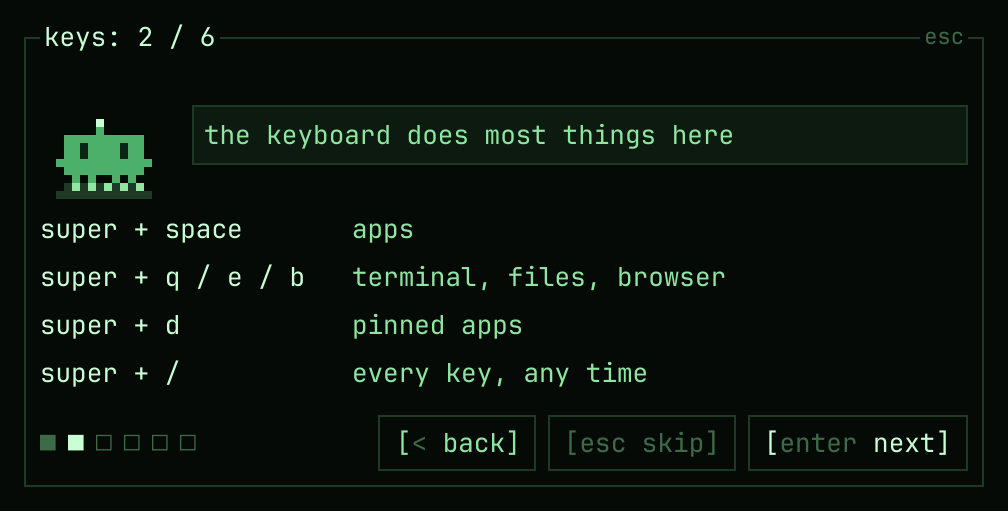
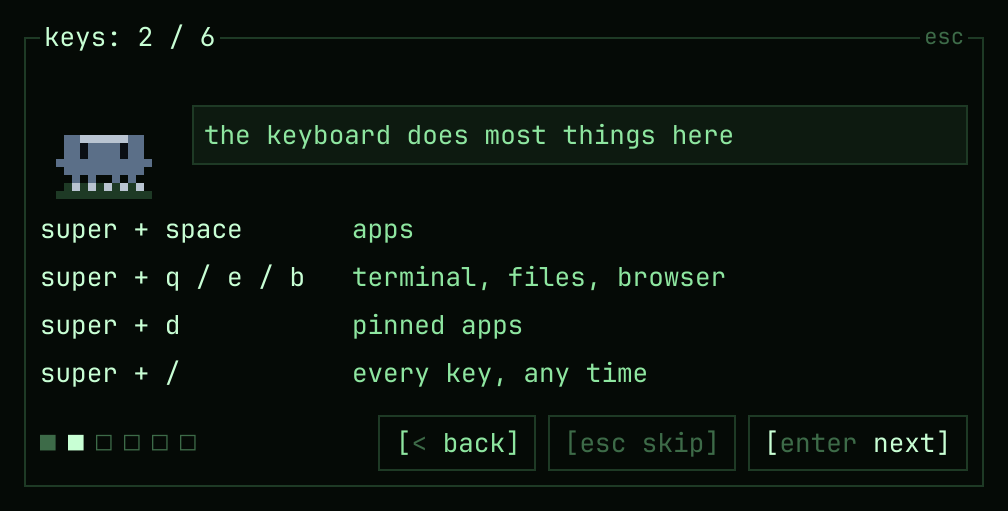
companion: floppy is the one you meet first (and first in his looks); the house sits left of the network buttons in the bar; the readme's pictures with floppy

Changed region(s): [[0.0615, 0.2348, 0.1538, 0.3816]]

diff --git a/quickshell/kawt-shell/modules/bar/Bar.qml b/quickshell/kawt-shell/modules/bar/Bar.qml
@@ -116,13 +116,20 @@ Variants {
             }
         }
 
-        // network leads up to the clock
+        // the companion's house, then the network, up to the clock
         RowLayout {
             opacity: root.tucked ? 0 : 1
             anchors.right: clock.left
             anchors.rightMargin: Metrics.sectionGap
             anchors.verticalCenter: parent.verticalCenter
             spacing: Metrics.spacing
+
+            // the companion's house (modules/companion)
+            HouseButton {
+                id: home
+                active: Panels.isOpen("home", root.modelData)
+                onClicked: Panels.toggle("home", root.modelData)
+            }
 
             // while a tunnel (wireguard, openvpn, tailscale...) is up; which one: in the wifi panel
             BracketButton {
@@ -228,13 +235,6 @@ Variants {
                 visible: Settings.barShows("log")
                 active: Panels.isOpen("notifs", root.modelData)
                 onClicked: Panels.toggle("notifs", root.modelData)
-            }
-
-            // the companion's house (modules/companion)
-            HouseButton {
-                id: home
-                active: Panels.isOpen("home", root.modelData)
-                onClicked: Panels.toggle("home", root.modelData)
             }
 
             BracketButton {

diff --git a/quickshell/kawt-shell/utils/companions.js b/quickshell/kawt-shell/utils/companions.js
@@ -21,7 +21,7 @@
 //                          ".obebbbbebo.", ".obbbbbbbbo.", ".obbbmmbbbo.", ".obbbbbbbbo.",
 //                          ".obbbbbbbbo.", "..oooooooo.." ] } }
 // Also possible: "alpha": 0.8 (see-through), "sway": true, "hem": true (a ghost's hem for
-// feet), "blink": "shutter" (the light metal covers the window, like the floppy).
+// feet), "blink": "shutter" (the light "l" slides over the window "s" when the eyes close).
 
 var W = 16, H = 16;
 var X0 = 2; // where the 12-wide grid sits on the stage
@@ -160,7 +160,7 @@ var skins = {
     }
 };
 
-var order = ["phos", "amber", "floppy", "bug", "ghost", "theme"];
+var order = ["floppy", "phos", "amber", "bug", "ghost", "theme"]; // the first one is who you meet
 
 // a skin from companions.json, checked: 10 rows of 12 known letters, colors as #rrggbb
 function valid(s) {

diff --git a/quickshell/kawt-shell/config/Settings.qml b/quickshell/kawt-shell/config/Settings.qml
@@ -209,7 +209,7 @@ Singleton {
             property bool companion: true // off: no house, no walks, no peeks
             property string companionMode: "auto" // "home" | "walk" (an empty desktop is his) | "auto" (he decides)
             property bool companionAsks: true // asks for food and play in a notification, 3 a day at most
-            property string companionSkin: "phos" // utils/companions.js, or yours in ~/.config/kawt/companions.json
+            property string companionSkin: "floppy" // utils/companions.js, or yours in ~/.config/kawt/companions.json
             property string companionName: "" // "" = the look's own
             property string companionLang: "en" // "en" | "ru": what he says
             property bool companionQuotes: true // wise words now and then on a click (fortune-mod's too, in english)

diff --git a/quickshell/kawt-shell/services/Companion.qml b/quickshell/kawt-shell/services/Companion.qml
@@ -34,7 +34,7 @@ Singleton {
     property var custom: ({}) // ~/.config/kawt/companions.json, the valid ones
     readonly property var skins: Object.assign({}, Art.skins, custom, { theme: Object.assign({}, Art.skins.theme, { colors: themeColors }) })
     readonly property var order: Art.order.concat(Object.keys(custom).filter(k => !Art.order.includes(k)))
-    readonly property string skinName: skins[Settings.companionSkin] ? Settings.companionSkin : "phos"
+    readonly property string skinName: skins[Settings.companionSkin] ? Settings.companionSkin : "floppy"
     readonly property var skin: skins[skinName]
     readonly property string name: Settings.companionName || title(skinName)
 

diff --git a/README.md b/README.md
@@ -64,7 +64,7 @@ and running it again is safe. More below: [what the installer does](#what-the-in
 
 ## What's inside
 
-**bar**: `[~] [$] [1] 2 3 · [wifi] [↓ ▁▃▅▇] [> ▂▅▃] [12:34] · [tray 3 v] [us] [vol 40%] [br 60%] [bat 72%] [log 2] [⌂] [>_]`
+**bar**: `[~] [$] [1] 2 3 · [⌂] [wifi] [↓ ▁▃▅▇] [> ▂▅▃] [12:34] · [tray 3 v] [us] [vol 40%] [br 60%] [bat 72%] [log 2] [>_]`
 (the wheel on the workspaces walks them, and with several monitors each bar lists its own; `[eth]` instead of `[wifi]` on a cable, `[vpn]` while a tunnel is up (wireguard, openvpn, tailscale...); `[cast ● app]` shows while something captures the screen or the webcam, `[caf on]` while caffeine is on)
 
 | | |
@@ -85,7 +85,7 @@ and running it again is safe. More below: [what the installer does](#what-the-in
 | mic | `[mic ● discord]` appears while an app records you (red), click to mute |
 | player | `[> ▂▅▃▇▂]` next to the clock (real sound with `cava`); click: the cover as an old phosphor screen shows it (a few big pixels in the theme's color), a wide spectrum, `[-10] [<<] [||] [>>] [+10]`, a position bar to click, drag or scroll, shuffle and loop, the player's own volume, tabs when several play (spotify / firefox / mpv: the bar and the media keys follow the one picked, or the last one started) and this session's tracks (click copies "artist — title", nothing is written down). Keys inside: `space` `←→` `↑↓` `n` `p` `s` `r` `tab`. Covers that live online (spotify's) load only after `[cover load from the net]` |
 | recording | `[● rec 0:42]` in the bar; area or whole screen; sound: off, the mic, what you hear, or both mixed (profile → cfg → media) |
-| screenshots | area / window / screen; the screen stands still while you pick the area (`hyprpicker`); a preview in the corner asks: `[copy]` `[save]` `[open]`, `[edit]` (arrows, boxes, text, blur in `satty`) and `[text]` (what's written in the shot, onto the clipboard, with `tesseract`) (click the picture: open, right click: away; left alone, it goes and nothing is kept). `[x] ask` off in profile → cfg → media: saved and copied at once, like before |
+| screenshots | area / window / screen; the screen stands still while you pick the area (`hyprpicker`); a preview in the corner asks: `[copy]` `[save]` `[open]`, `[edit]` (arrows, boxes, text, blur in `satty`) and `[text]` (what's written in the shot, onto the clipboard, with `tesseract`) (click the picture: open, right click: away; it's on the clipboard at once; left alone, it goes and is saved). `[x] ask` off in profile → cfg → media: saved and copied at once, like before |
 | fastfetch | short system info next to your system's own logo (arch on arch), a `[####----]` memory meter, in the current theme's colors (rewritten on every theme switch); nothing that says who or where you are (no user@host, laptop model or addresses), so it's safe to screenshot |
 | prompt | for zsh (plain zsh, oh-my-zsh not needed): `┌[user]─[~/dir]─[branch*]` / `└$` (`[user@host]` only over ssh), the time on the right, the exit code when a command fails; while typing, the rest of a command from history (→ takes it) and the command marked: accent if it exists, warn if it's a typo; in the theme's own accent / dim / warn colors, switching with it at the next prompt |
 | night light | warmer colors in the `[br]` panel or the profile's cfg (runs `hyprsunset`) |
@@ -95,10 +95,10 @@ and running it again is safe. More below: [what the installer does](#what-the-in
 ## The companion
 
 <p align="center">
-<img src="assets/companions.gif" alt="the five looks: phos, amber, floppy, bug, ghost" width="100%">
+<img src="assets/companions.gif" alt="the five looks: floppy, phos, amber, bug, ghost" width="100%">
 </p>
 
-`[⌂]` in the bar is the house of a little pixel friend, plain like Claude Code's (a solid body, two eyes, little arms and legs): a green monitor with an antenna, an amber one with horns, a floppy disk with its shutter, a purple bug, a pale ghost, or one in your theme's colors (your own: `~/.config/kawt/companions.json`, the format is in `utils/companions.js`). He gets hungry, bored and sleepy with time: feed him, play, put him to bed; left alone too long he sulks (he never dies), and food and a game bring him round.
+`[⌂]` in the bar is the house of a little pixel friend, plain like Claude Code's (a solid body, two eyes, little arms and legs): a floppy disk with its shutter (the one you meet first), a green monitor with an antenna, an amber one with horns, a purple bug, a pale ghost, or one in your theme's colors (your own: `~/.config/kawt/companions.json`, the format is in `utils/companions.js`). He gets hungry, bored and sleepy with time: feed him, play, put him to bed; left alone too long he sulks (he never dies), and food and a game bring him round.
 
 On the first start he says hello and shows around in six short steps (keys, the look, the ai, his house), in english or russian, and you can name him there (again: profile → cfg → kawt → `[tour]`).
 
@@ -107,7 +107,7 @@ Out on an empty desktop he walks about, dances to music, naps (a window opens an
 A pomodoro (25 + 5) in his house. He speaks english or russian, with your own phrases; asks for food and play in a notification if you like (3 a day at most). Off in profile → cfg → kawt: no house, nothing runs for him
 
 <p align="center">
-<img src="assets/companion-moves.gif" alt="phos walks, eats, thinks, codes with you, raises a flag on a diff, sweeps up after undo, sleeps" width="100%">
+<img src="assets/companion-moves.gif" alt="floppy walks, eats, thinks, codes with you, raises a flag on a diff, sweeps up after undo, sleeps" width="100%">
 </p>
 
 ## What the installer does
